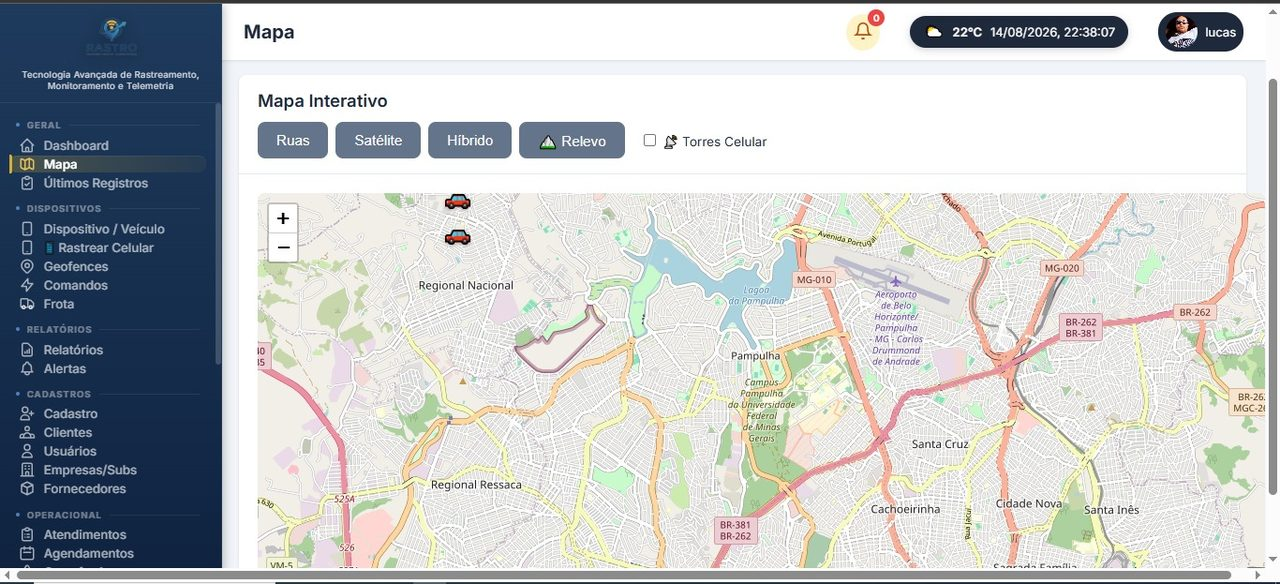
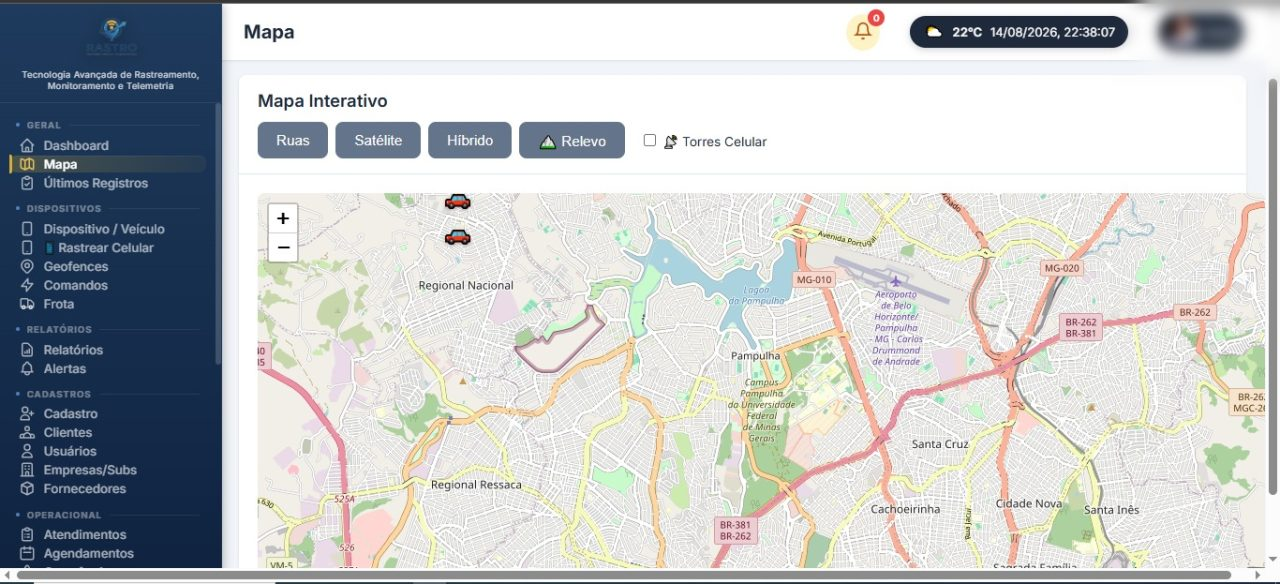
Borra apenas a foto de perfil no canto da capa; mantem imagem expandida

Changed region(s): [[0.875, 0.0, 1.0, 0.1233], [0.0938, 0.1233, 0.125, 0.1541]]

diff --git a/css/style.css b/css/style.css
@@ -561,7 +561,7 @@ ul {
 .hero-map-img {
   display: block;
   width: 100%;
-  max-width: 480px;
+  max-width: 540px;
   margin-left: auto;
   border-radius: var(--radius);
   border: 1px solid var(--steel-line);
